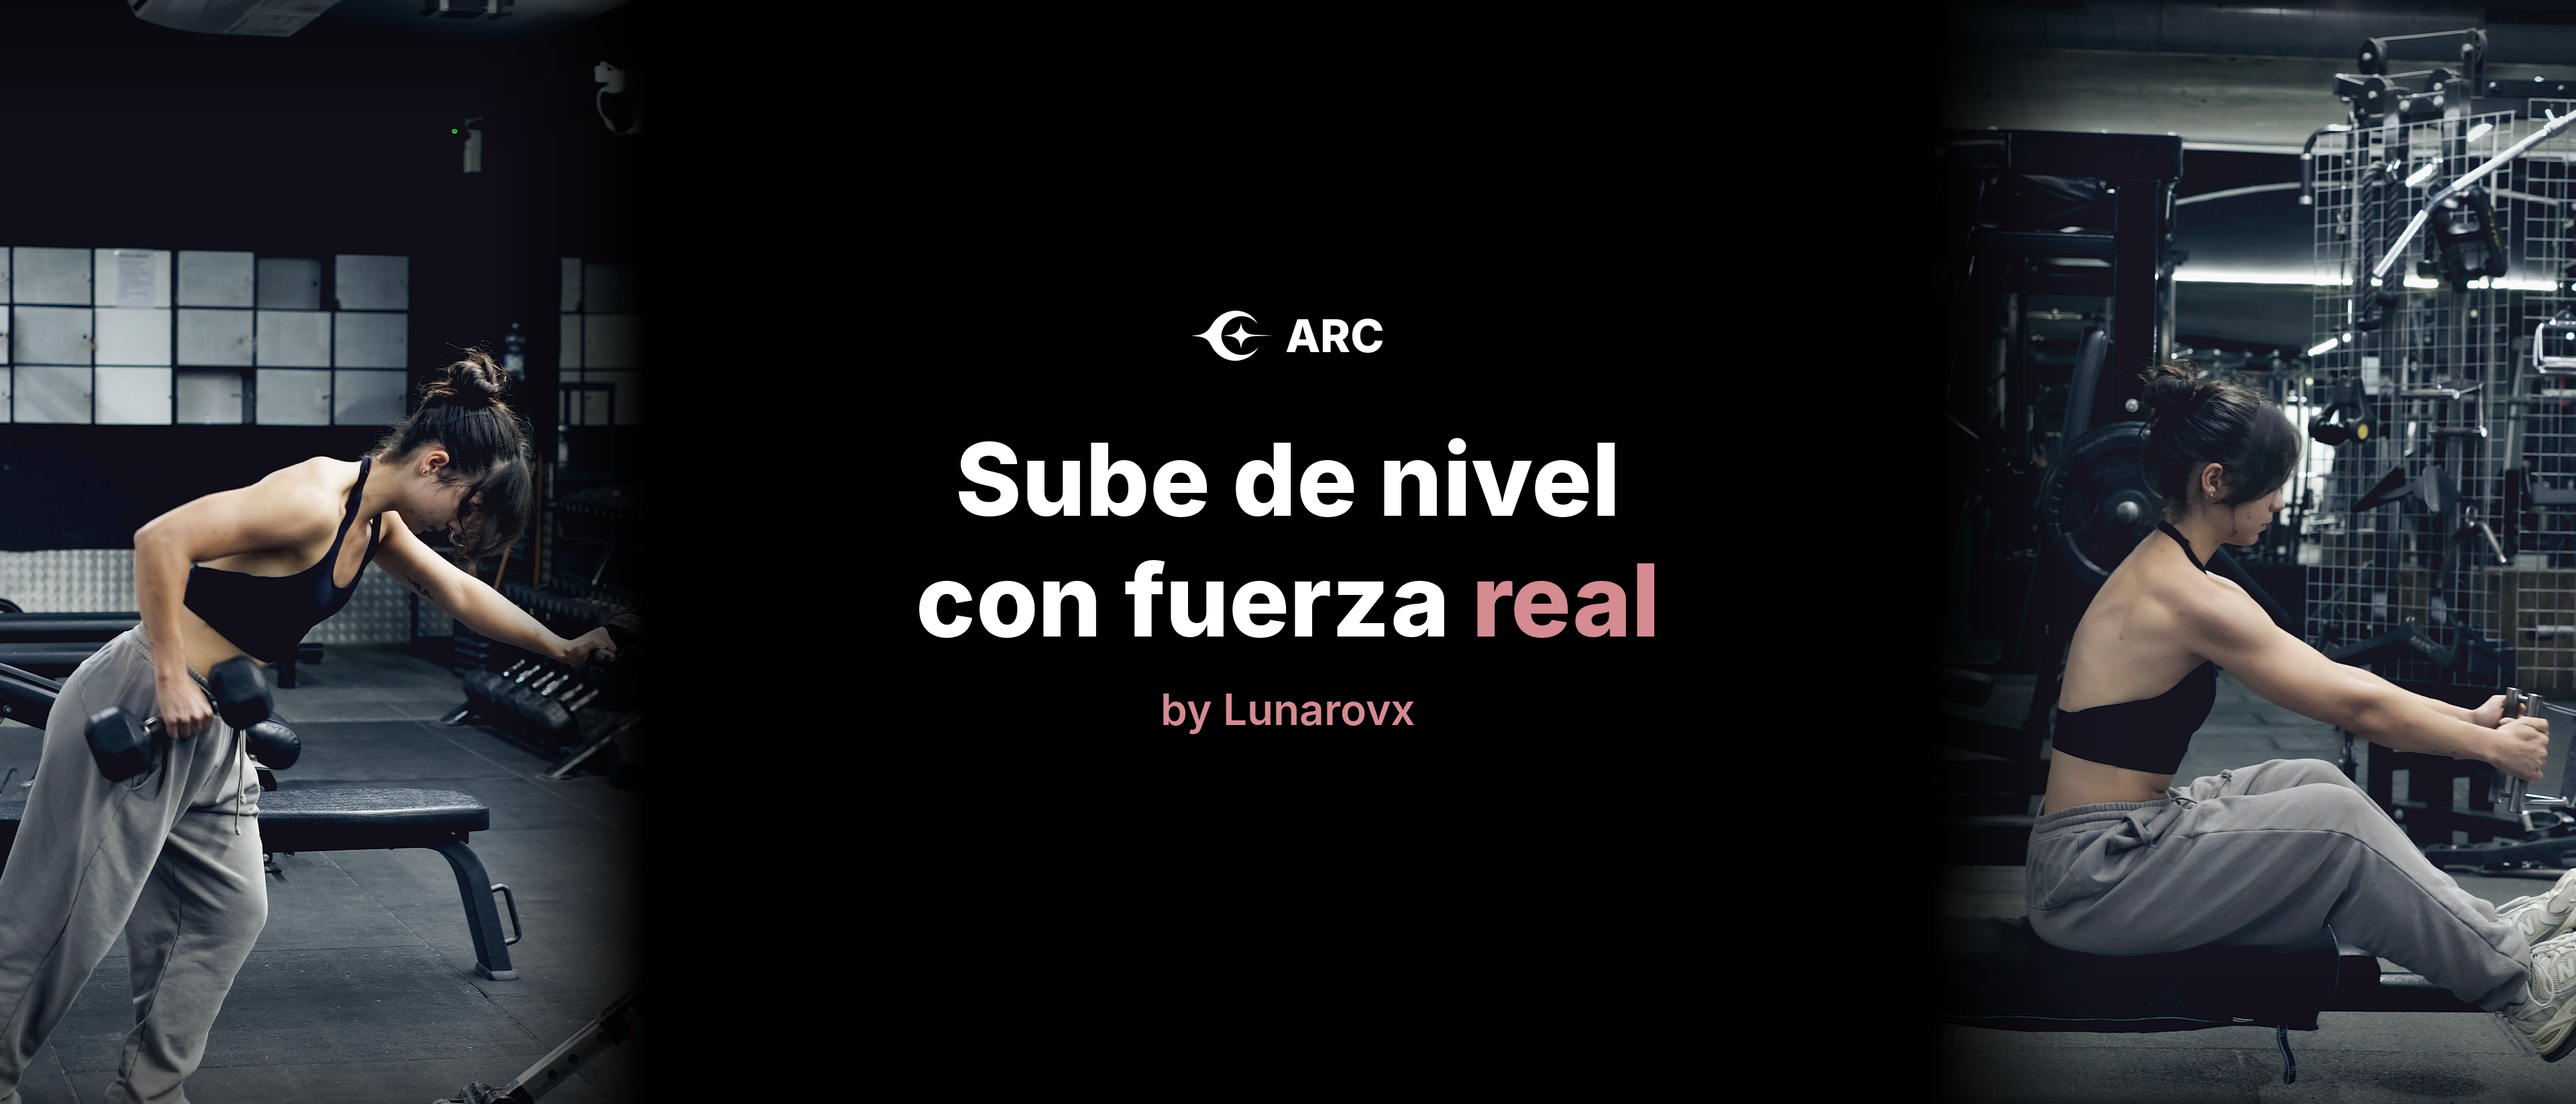
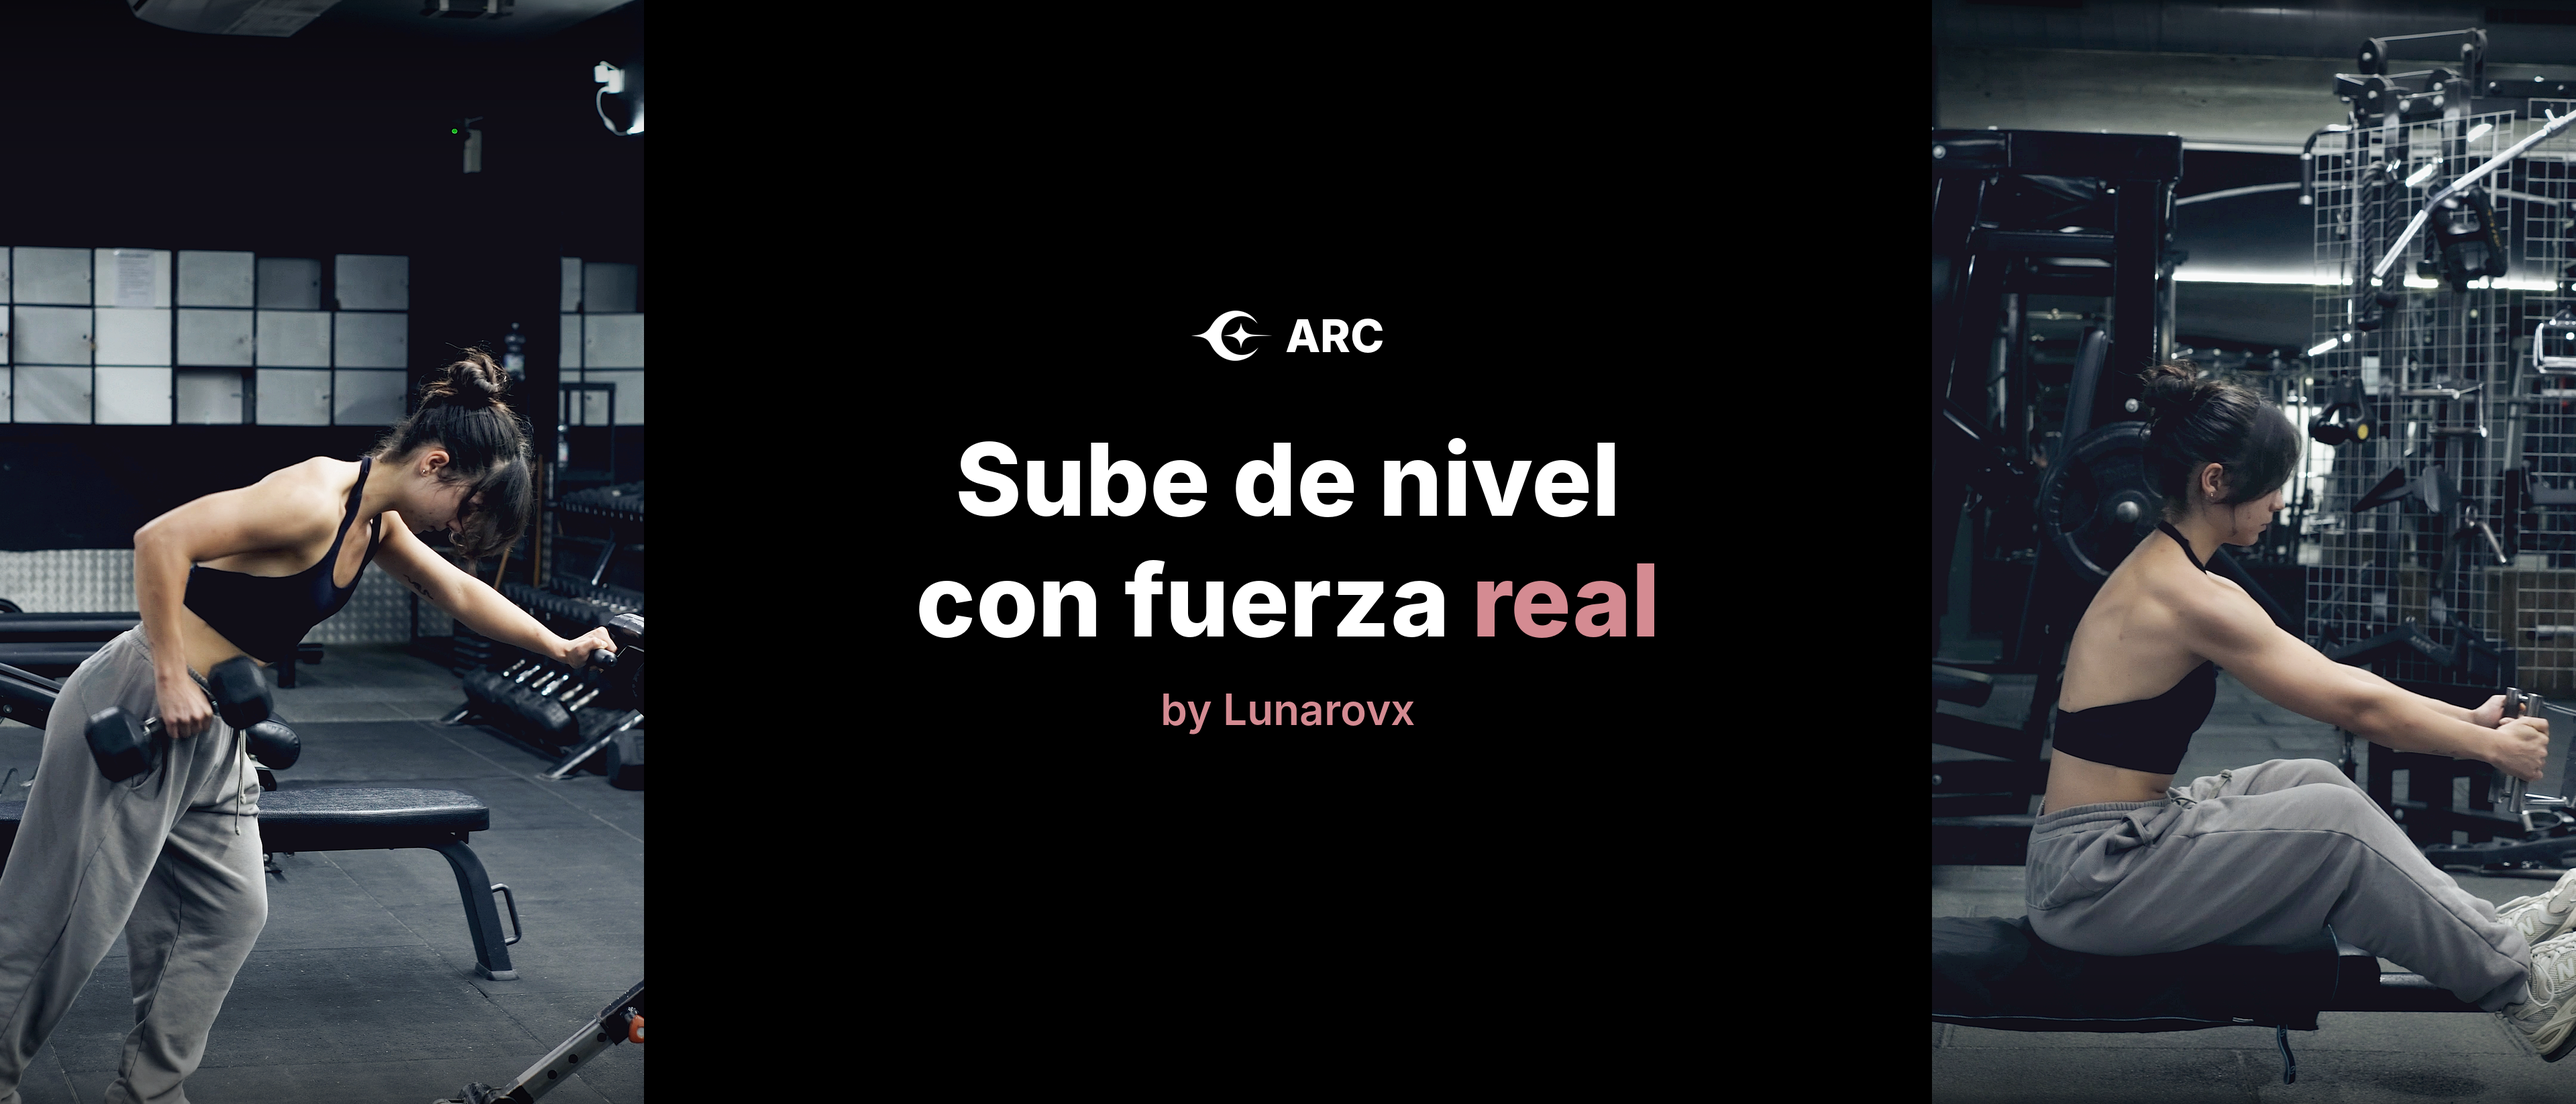
Cabecera sin fundidos
Claude-Session: https://claude.ai/code/session_01YbzsCEJorLLnqfp1NVcty4

diff --git a/marketing/header4.py b/marketing/header4.py
@@ -13,15 +13,7 @@ for i,k in enumerate(ks):
     im=Image.fromarray((a*255).astype("uint8")); c.paste(im,(i*sw,0))
 # separadores finos negros
 d=ImageDraw.Draw(c)
-fade=Image.new("L",(W,H),0); fd=fade.load()
-grad=Image.new("L",(W,1))
-for x in range(W):
-    t=0
-    if sw-260<=x<sw: t=(x-(sw-260))/260
-    elif sw<=x<3*sw: t=1
-    elif 3*sw<=x<3*sw+260: t=1-(x-3*sw)/260
-    grad.putpixel((x,0),int(255*min(1,max(0,t))**1.3))
-c.paste(Image.new("RGB",(W,H),(0,0,0)),(0,0),grad.resize((W,H)))
+pass  # sin fundidos
 # oscurecer el centro para leer el texto
 ov=Image.new("L",(W,H),0); od=ImageDraw.Draw(ov)
 pass  # sin óvalo oscuro: las 4 fotos con el mismo brillo
